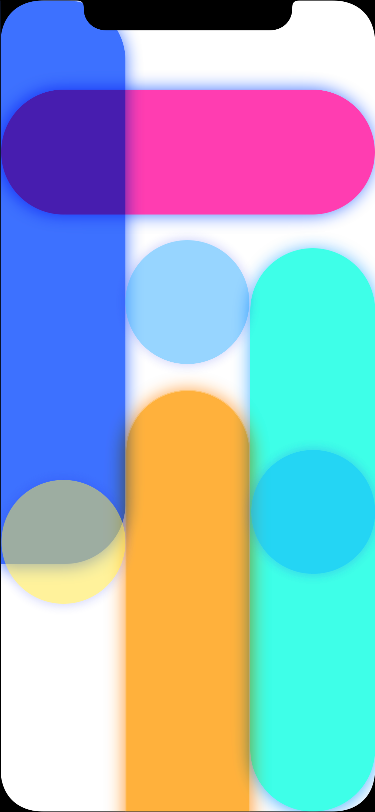
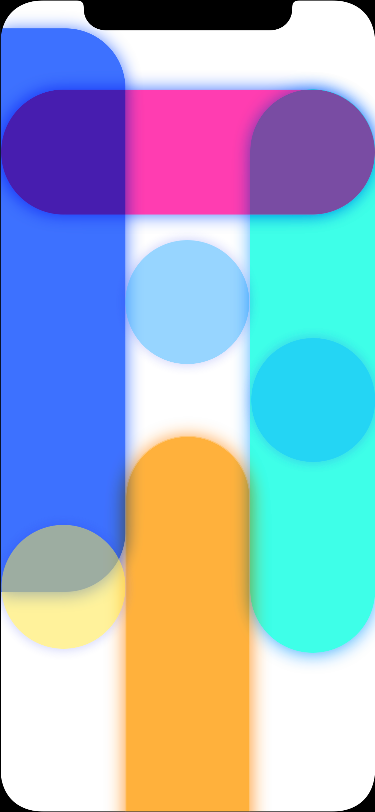
d
d

diff --git a/framer/framer.vekter.js b/framer/framer.vekter.js
@@ -1,1 +1,1 @@
-(function(scope) {var __layer_0__ = new Layer({"height":812,"constraintValues":{"height":812,"heightFactor":1,"width":375,"widthFactor":1},"backgroundColor":"#ffffff","clip":true,"width":375});var left_finger = new Layer({"parent":__layer_0__,"name":"left finger","shadows":[{"spread":0,"x":0,"type":"box","y":2,"blur":20,"color":"#3D71FF"}],"backgroundColor":"hsl(224, 100%, 62%)","width":125,"height":564,"constraintValues":{"height":564,"centerAnchorX":0.16666666666666666,"width":125,"centerAnchorY":0.34729064039408869},"borderRadius":{"bottomLeft":0,"topLeft":0,"bottomRight":60,"topRight":60},"blending":"multiply","clip":false,"borderStyle":"solid"});var middle_finger = new Layer({"parent":__layer_0__,"name":"middle finger","shadows":[{"spread":2,"x":0,"type":"box","y":2,"blur":20,"color":"hsl(32, 100%, 62%)"}],"borderWidth":1,"backgroundColor":"hsl(36, 100%, 62%)","width":125,"x":125,"borderColor":"hsla(0, 0%, 100%, 0.28)","height":564,"constraintValues":{"left":null,"height":564,"centerAnchorX":0.5,"width":125,"bottom":-142,"top":null,"centerAnchorY":0.82758620689655171},"borderRadius":70,"blending":"multiply","clip":false,"borderStyle":"solid","y":390});var circle_middle = new Layer({"parent":__layer_0__,"name":"circle middle","shadows":[{"spread":0,"x":0,"type":"box","y":0,"blur":14,"color":"hsla(241, 78%, 51%, 0.25)"}],"backgroundColor":"rgba(0,170,255,0.5)","width":124,"x":125,"height":124,"constraintValues":{"left":null,"height":124,"centerAnchorX":0.49866666666666665,"width":124,"top":240,"centerAnchorY":0.37192118226600984},"blending":"normal","borderRadius":"100%","clip":false,"borderStyle":"solid","y":240});var right_finger = new Layer({"parent":__layer_0__,"name":"right finger","shadows":[{"spread":0,"x":0,"type":"box","y":2,"blur":20,"color":"hsl(204, 100%, 62%)"}],"backgroundColor":"hsl(173, 100%, 62%)","width":125,"x":250,"height":564,"constraintValues":{"left":null,"height":564,"centerAnchorX":0.83333333333333337,"width":125,"bottom":0,"right":0,"top":null,"centerAnchorY":0.65270935960591137},"borderRadius":70,"blending":"multiply","clip":false,"borderStyle":"solid","y":248});var circle_left = new Layer({"parent":__layer_0__,"name":"circle left","shadows":[{"spread":0,"x":0,"type":"box","y":0,"blur":14,"color":"hsla(241, 78%, 51%, 0.25)"}],"backgroundColor":"hsla(54, 100%, 50%, 0.5)","width":124,"x":1,"height":124,"constraintValues":{"left":1,"height":124,"centerAnchorX":0.16800000000000001,"width":124,"bottom":208,"top":null,"centerAnchorY":0.66748768472906406},"blending":"normal","borderRadius":"100%","clip":false,"borderStyle":"solid","y":480});var sideways = new Layer({"parent":__layer_0__,"name":"sideways","shadows":[{"spread":0,"x":0,"type":"box","y":2,"blur":20,"color":"#3D71FF"}],"backgroundColor":"hsl(324, 100%, 62%)","width":125,"x":125,"rotation":90,"height":374,"constraintValues":{"left":null,"height":374,"centerAnchorX":0.49866666666666665,"width":125,"top":-35.5,"centerAnchorY":0.18657635467980296},"borderRadius":70,"blending":"multiply","clip":false,"borderStyle":"solid","y":-35});var Right_circle = new Layer({"parent":__layer_0__,"name":"Right circle","shadows":[{"spread":0,"x":0,"type":"box","y":0,"blur":14,"color":"hsla(241, 78%, 51%, 0.25)"}],"backgroundColor":"rgba(0,170,255,0.5)","width":124,"x":251,"height":124,"constraintValues":{"left":null,"height":124,"centerAnchorX":0.83466666666666667,"width":124,"bottom":238,"right":0,"top":null,"centerAnchorY":0.63054187192118227},"blending":"normal","borderRadius":"100%","clip":false,"borderStyle":"solid","y":450});right_finger.__framerInstanceInfo = {"framerClass":"Layer","hash":"#vekter|right_finger","targetName":"right_finger","vekterClass":"RectangleNode"};left_finger.__framerInstanceInfo = {"framerClass":"Layer","hash":"#vekter|left_finger","targetName":"left_finger","vekterClass":"RectangleNode"};circle_left.__framerInstanceInfo = {"framerClass":"Layer","hash":"#vekter|circle_left","targetName":"circle_left","vekterClass":"OvalNode"};middle_finger.__framerInstanceInfo = {"framerClass":"Layer","hash":"#vekter|middle_finger","targetName":"middle_finger","vekterClass":"RectangleNode"};__layer_0__.__framerInstanceInfo = {"hash":"#vekter|__layer_0__","vekterClass":"FrameNode","framerClass":"Layer"};circle_middle.__framerInstanceInfo = {"framerClass":"Layer","hash":"#vekter|circle_middle","targetName":"circle_middle","vekterClass":"OvalNode"};sideways.__framerInstanceInfo = {"framerClass":"Layer","hash":"#vekter|sideways","targetName":"sideways","vekterClass":"RectangleNode"};Right_circle.__framerInstanceInfo = {"framerClass":"Layer","hash":"#vekter|Right_circle","targetName":"Right_circle","vekterClass":"OvalNode"};if (scope["__vekterVariables"]) { scope["__vekterVariables"].map(function(variable) { delete scope[variable] } ) };Object.assign(scope, {left_finger, middle_finger, circle_middle, right_finger, circle_left, sideways, Right_circle});scope["__vekterVariables"] = ["left_finger", "middle_finger", "circle_middle", "right_finger", "circle_left", "sideways", "Right_circle"];if (typeof Framer.CurrentContext.layout === 'function') {Framer.CurrentContext.layout()};})(window);
+(function(scope) {var __layer_0__ = new Layer({"height":812,"constraintValues":{"height":812,"heightFactor":1,"width":375,"widthFactor":1},"backgroundColor":"#ffffff","clip":true,"width":375});var left_finger = new Layer({"parent":__layer_0__,"name":"left finger","shadows":[{"spread":0,"x":0,"type":"box","y":2,"blur":20,"color":"#3D71FF"}],"backgroundColor":"hsl(224, 100%, 62%)","width":125,"height":564,"constraintValues":{"height":564,"centerAnchorX":0.16666666666666666,"width":125,"top":28,"centerAnchorY":0.3817733990147783},"borderRadius":{"bottomLeft":0,"topLeft":0,"bottomRight":60,"topRight":60},"blending":"multiply","clip":false,"borderStyle":"solid","y":28});var middle_finger = new Layer({"parent":__layer_0__,"name":"middle finger","shadows":[{"spread":2,"x":0,"type":"box","y":2,"blur":20,"color":"hsl(32, 100%, 62%)"}],"borderWidth":1,"backgroundColor":"hsl(36, 100%, 62%)","width":125,"x":125,"borderColor":"hsla(0, 0%, 100%, 0.28)","height":564,"constraintValues":{"left":null,"height":564,"centerAnchorX":0.5,"width":125,"bottom":-188,"top":null,"centerAnchorY":0.88423645320197042},"borderRadius":70,"blending":"multiply","clip":false,"borderStyle":"solid","y":436});var circle_middle = new Layer({"parent":__layer_0__,"name":"circle middle","shadows":[{"spread":0,"x":0,"type":"box","y":0,"blur":14,"color":"hsla(241, 78%, 51%, 0.25)"}],"backgroundColor":"rgba(0,170,255,0.5)","width":124,"x":125,"height":124,"constraintValues":{"left":null,"height":124,"centerAnchorX":0.49866666666666665,"width":124,"top":240,"centerAnchorY":0.37192118226600984},"blending":"normal","borderRadius":"100%","clip":false,"borderStyle":"solid","y":240});var right_finger = new Layer({"parent":__layer_0__,"name":"right finger","shadows":[{"spread":0,"x":0,"type":"box","y":2,"blur":20,"color":"hsl(204, 100%, 62%)"}],"backgroundColor":"hsl(173, 100%, 62%)","width":125,"x":250,"height":564,"constraintValues":{"left":null,"height":564,"centerAnchorX":0.83333333333333337,"width":125,"bottom":159,"right":0,"top":89,"centerAnchorY":0.45689655172413796},"borderRadius":70,"blending":"multiply","clip":false,"borderStyle":"solid","y":89});var Right_circle = new Layer({"parent":right_finger,"name":"Right circle","shadows":[{"spread":0,"x":0,"type":"box","y":0,"blur":14,"color":"hsla(241, 78%, 51%, 0.25)"}],"backgroundColor":"rgba(0,170,255,0.5)","width":124,"x":1,"height":124,"constraintValues":{"left":1,"height":124,"centerAnchorX":0.504,"width":124,"bottom":191,"right":0,"top":null,"centerAnchorY":0.5514184397163121},"blending":"normal","borderRadius":"100%","clip":false,"borderStyle":"solid","y":249});var circle_left = new Layer({"parent":__layer_0__,"name":"circle left","shadows":[{"spread":0,"x":0,"type":"box","y":0,"blur":14,"color":"hsla(241, 78%, 51%, 0.25)"}],"backgroundColor":"hsla(54, 100%, 50%, 0.5)","width":124,"x":1,"height":124,"constraintValues":{"left":1,"height":124,"centerAnchorX":0.16800000000000001,"width":124,"bottom":163,"top":null,"centerAnchorY":0.72290640394088668},"blending":"normal","borderRadius":"100%","clip":false,"borderStyle":"solid","y":525});var sideways = new Layer({"parent":__layer_0__,"name":"sideways","shadows":[{"spread":0,"x":0,"type":"box","y":2,"blur":20,"color":"#3D71FF"}],"backgroundColor":"hsl(324, 100%, 62%)","width":125,"x":125,"rotation":90,"height":374,"constraintValues":{"left":null,"height":374,"centerAnchorX":0.49866666666666665,"width":125,"top":-35.5,"centerAnchorY":0.18657635467980296},"borderRadius":70,"blending":"multiply","clip":false,"borderStyle":"solid","y":-35});right_finger.__framerInstanceInfo = {"framerClass":"Layer","hash":"#vekter|right_finger","targetName":"right_finger","vekterClass":"RectangleNode"};left_finger.__framerInstanceInfo = {"framerClass":"Layer","hash":"#vekter|left_finger","targetName":"left_finger","vekterClass":"RectangleNode"};circle_left.__framerInstanceInfo = {"framerClass":"Layer","hash":"#vekter|circle_left","targetName":"circle_left","vekterClass":"OvalNode"};middle_finger.__framerInstanceInfo = {"framerClass":"Layer","hash":"#vekter|middle_finger","targetName":"middle_finger","vekterClass":"RectangleNode"};__layer_0__.__framerInstanceInfo = {"hash":"#vekter|__layer_0__","vekterClass":"FrameNode","framerClass":"Layer"};circle_middle.__framerInstanceInfo = {"framerClass":"Layer","hash":"#vekter|circle_middle","targetName":"circle_middle","vekterClass":"OvalNode"};Right_circle.__framerInstanceInfo = {"framerClass":"Layer","hash":"#vekter|Right_circle","targetName":"Right_circle","vekterClass":"OvalNode"};sideways.__framerInstanceInfo = {"framerClass":"Layer","hash":"#vekter|sideways","targetName":"sideways","vekterClass":"RectangleNode"};if (scope["__vekterVariables"]) { scope["__vekterVariables"].map(function(variable) { delete scope[variable] } ) };Object.assign(scope, {left_finger, middle_finger, circle_middle, right_finger, Right_circle, circle_left, sideways});scope["__vekterVariables"] = ["left_finger", "middle_finger", "circle_middle", "right_finger", "Right_circle", "circle_left", "sideways"];if (typeof Framer.CurrentContext.layout === 'function') {Framer.CurrentContext.layout()};})(window);
